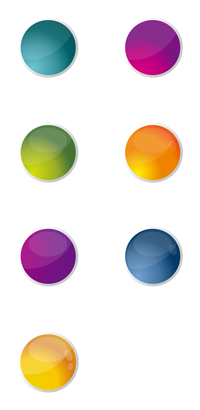
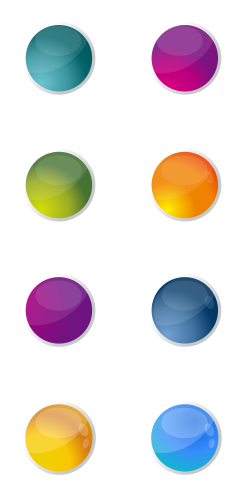
增加网上中介超市

diff --git a/views/home.html b/views/home.html
@@ -89,6 +89,9 @@
         <div class="right-item">
             <p>政企互<br>通平台</p>
         </div>
+        <div class="right-item">
+            <p>网上<br>中介超市</p>
+        </div>
     </div>
 </div>
 <% include foot.html %>
